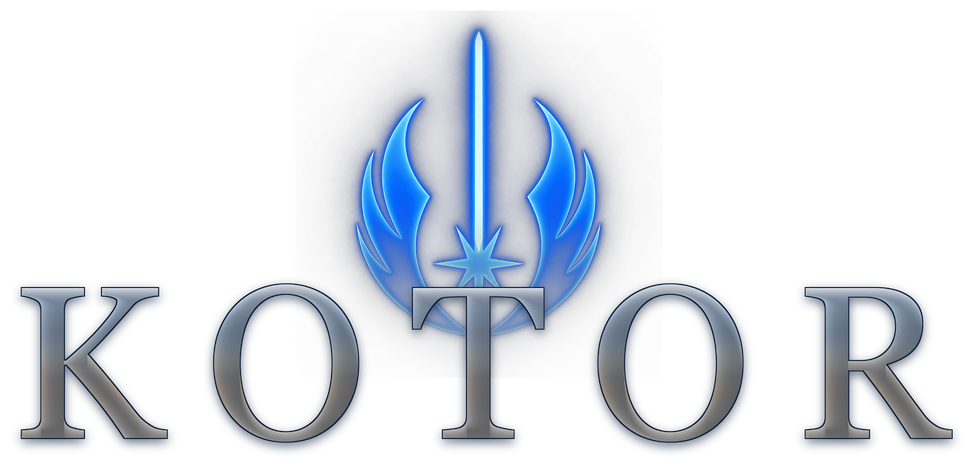
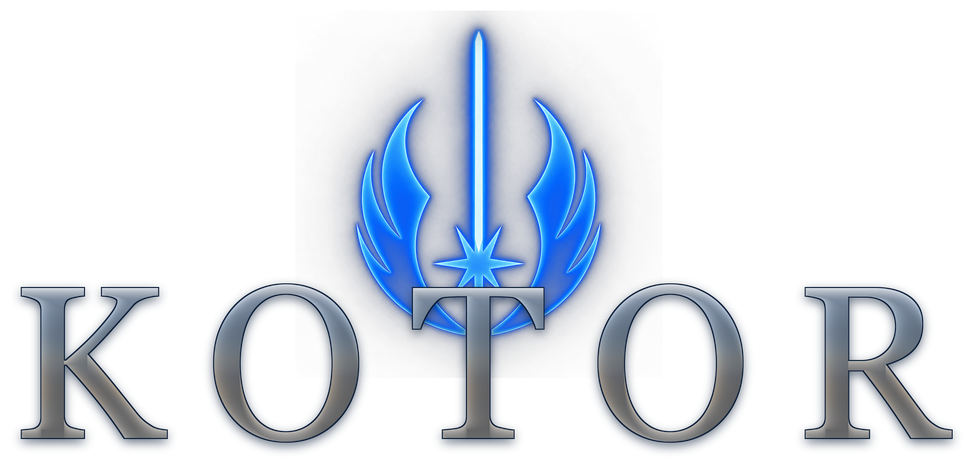
Give the crest a smoothstep fade so it darkens across the letters
The veil was a long linear ramp that left the wings bright where they met the
letters and then stopped. Measured on the reference, the fade is neither: the
wings hold ~0.85 of peak brightness down to -0.24 cap, fall to 0.53 by the cap
line, and are gone just below it, while the saber carries on at ~0.98.

The veil is now a smoothstep between FADE_FROM and FADE_TO, both expressed
relative to the wing line so they travel with WING_BOTTOM_AT rather than needing
to be retuned whenever the crest moves. -0.15 to +1.00 cap: dimming starts as the
wings reach the letters and completes a full cap later, so the crest visibly
darkens as it crosses them instead of ending at them. Rendered against -0.30/+0.75
and -0.45/+0.60 to choose.

Changed region(s): [[0.37, 0.5096, 0.6166, 0.7495]]

diff --git a/tools/build_brand_image.py b/tools/build_brand_image.py
@@ -60,7 +60,14 @@ WING_BOTTOM_AT = 0.25         # where the wings' lower tips land, in caps below 
                               # 0.00 puts them exactly on it, which is where the reference has
                               # them; a little lower lets the tips dip behind the letters and
                               # dim there, which is what was asked for
-CREST_FADE_SPAN = 1.30        # the veil reaches nothing this many caps below the cap line
+# Measured on the reference: the wings hold ~0.85 of peak brightness until
+# -0.24 cap, then fall to 0.53 by the cap line and are gone just below it. So the
+# fade is a short smooth ramp, not a long linear one. Expressed relative to the
+# wing line so it travels with WING_BOTTOM_AT.
+FADE_FROM = -0.15             # caps relative to the wing line: dimming starts here
+FADE_TO = 1.00                # ...and reaches nothing here. A full cap of travel, so the
+                              # crest visibly darkens as it crosses the letters instead of
+                              # stopping at them
 BEVEL_TAU_RATIO = 0.048       # bevel decay length / cap height, fitted to the
                               # reference's luminance-vs-depth profile
 OUTLINE_RATIO = 0.008         # outline half-width / cap height (1px at cap 58)
@@ -204,17 +211,22 @@ def build(crest_path: Path, out: Path) -> None:
     wing_bottom = (wide.max() + 1) / crest_h if wide.size else 0.85
 
     crest_top = int(cap_top + WING_BOTTOM_AT * cap - wing_bottom * crest_h)
-    fade_end = cap_top + int(CREST_FADE_SPAN * cap)
-    fade_span = max(1, int(cap * CREST_FADE_SPAN * 1.35))
+    wing_line = cap_top + WING_BOTTOM_AT * cap
+    fade_from = wing_line + FADE_FROM * cap
+    fade_to = wing_line + FADE_TO * cap
     top_soft = int(cap * 0.7)
 
     veil = Image.new("L", crest.size, 0)
     vd = veil.load()
     for y in range(crest_h):
         gy = crest_top + y
-        v = 255.0
-        if gy > fade_end - fade_span:
-            v *= max(0.0, 1.0 - (gy - (fade_end - fade_span)) / fade_span)
+        if gy <= fade_from:
+            v = 255.0
+        elif gy >= fade_to:
+            v = 0.0
+        else:
+            k = (gy - fade_from) / max(1e-6, fade_to - fade_from)
+            v = 255.0 * (1.0 - (k * k * (3.0 - 2.0 * k)))     # smoothstep, so it eases out
         if gy < top_soft:
             v *= max(0.0, gy / max(1, top_soft))
         for x in range(crest_w):
